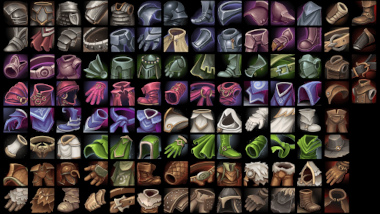
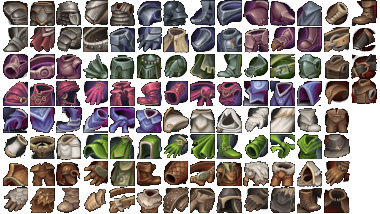
mejorar los iconos de las armaduras

diff --git a/static/armor.css b/static/armor.css
@@ -8,15 +8,15 @@
 }
 
 .iron {
-  background-position:-110px -2px!important;
+  background-position:-108px -1px!important;
 }
 
 .leather {
-  background-position: -352px -78px!important;
+  background-position: -349px -79px!important;
 }
 
 .cloth {
-	background-position: -57px -133px !important;
+	background-position: -55px -133px !important;
 }
 
 .greencloth {
